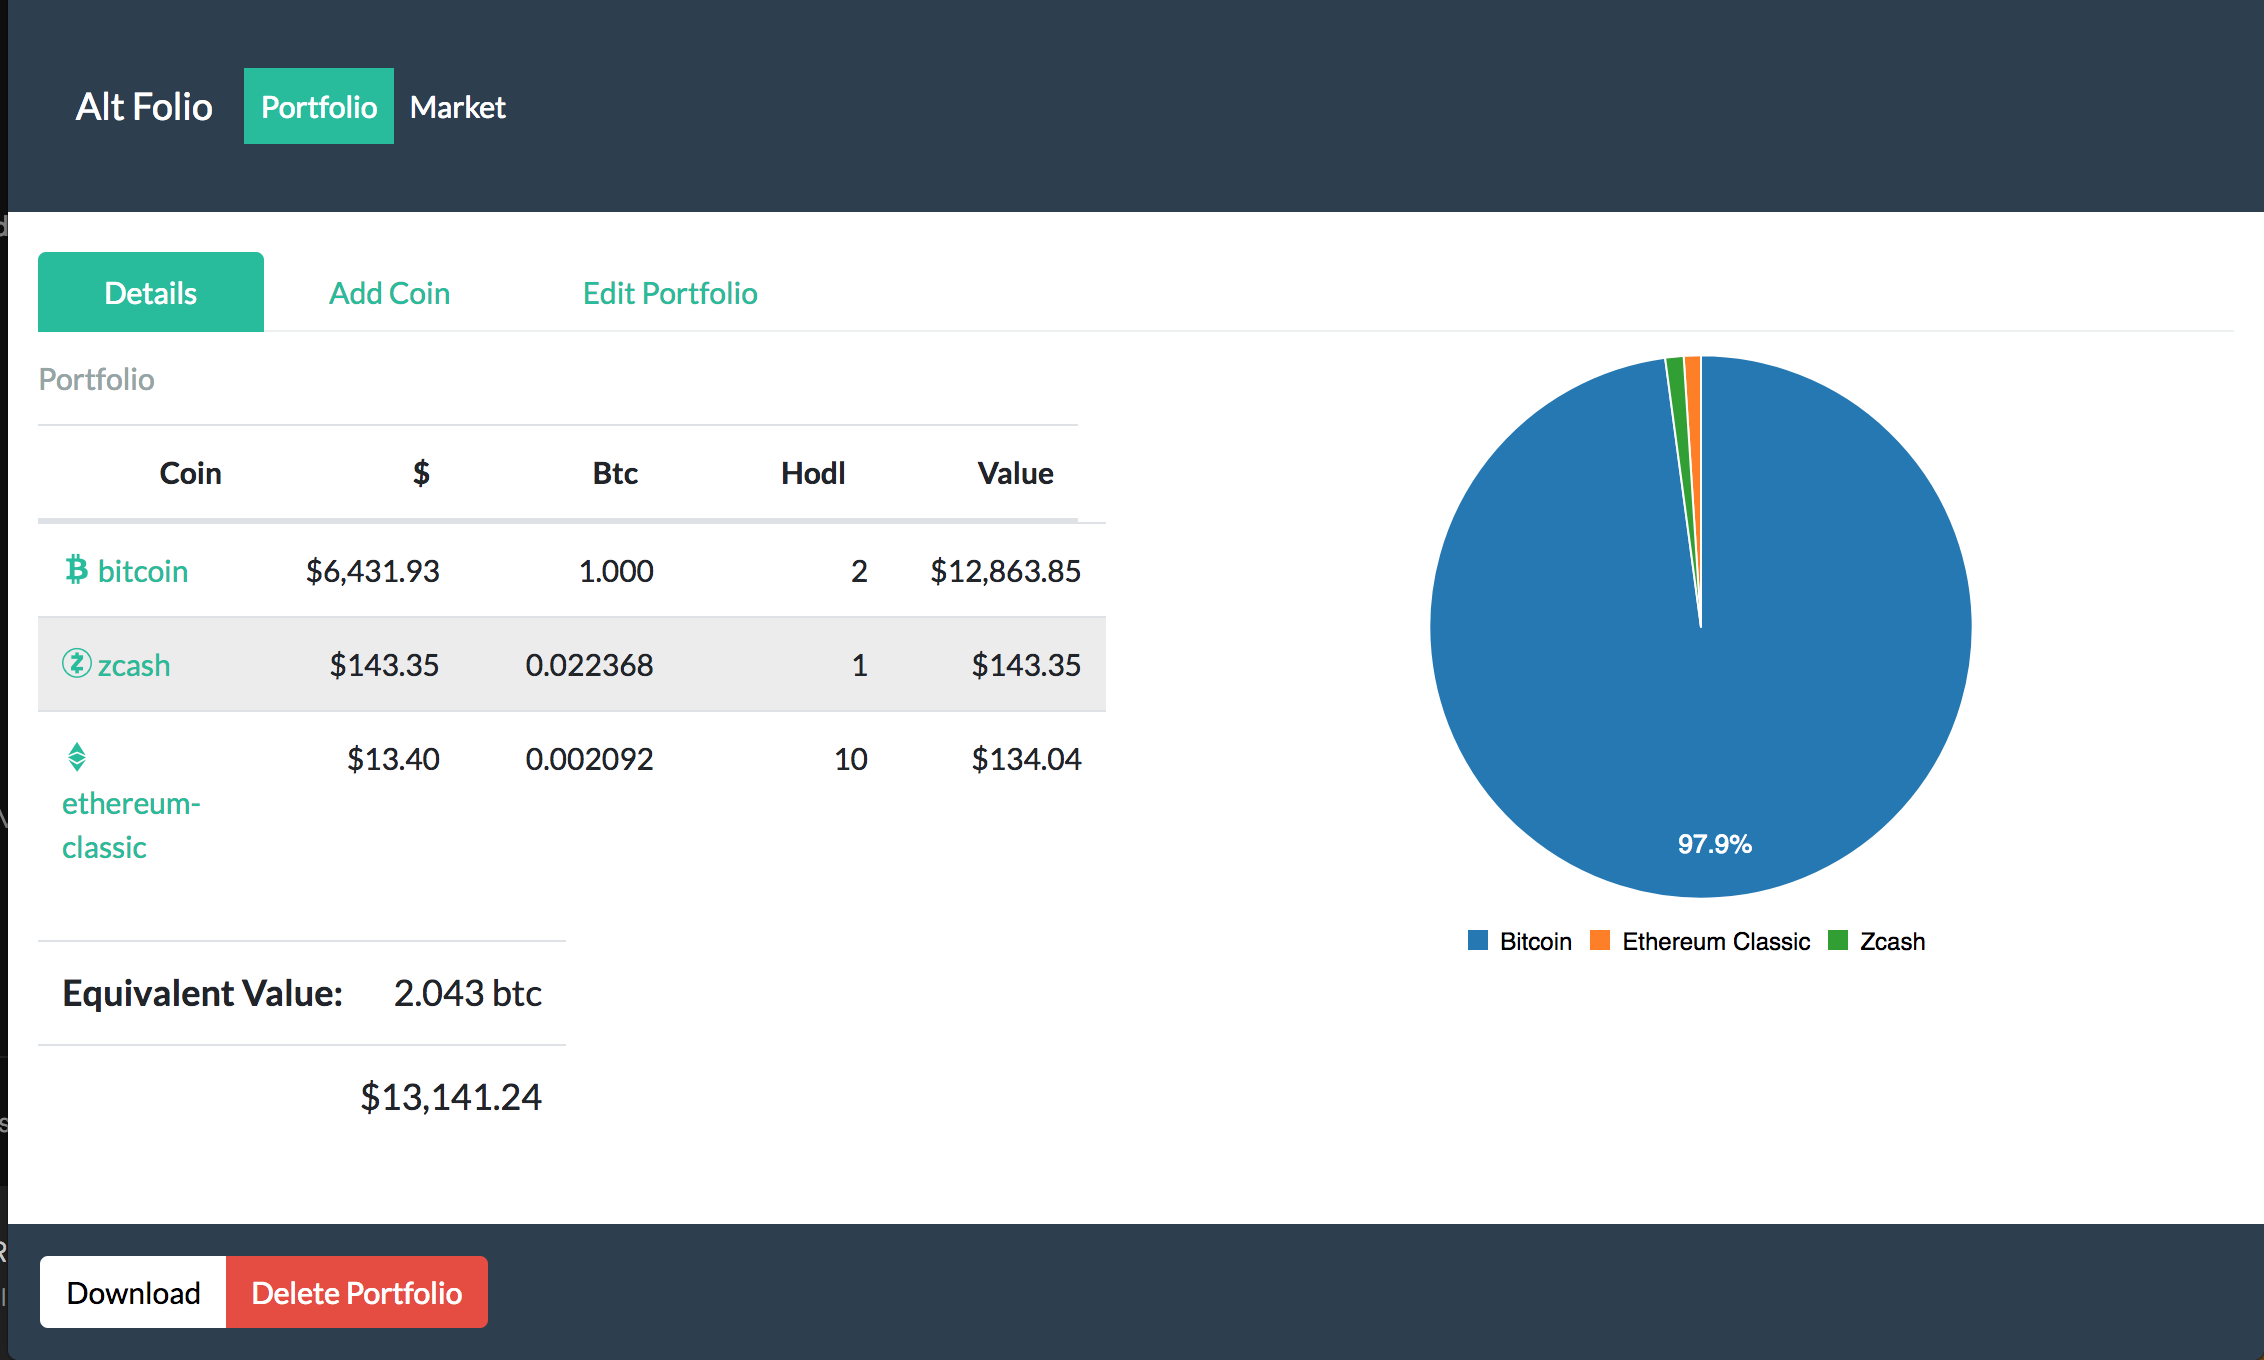
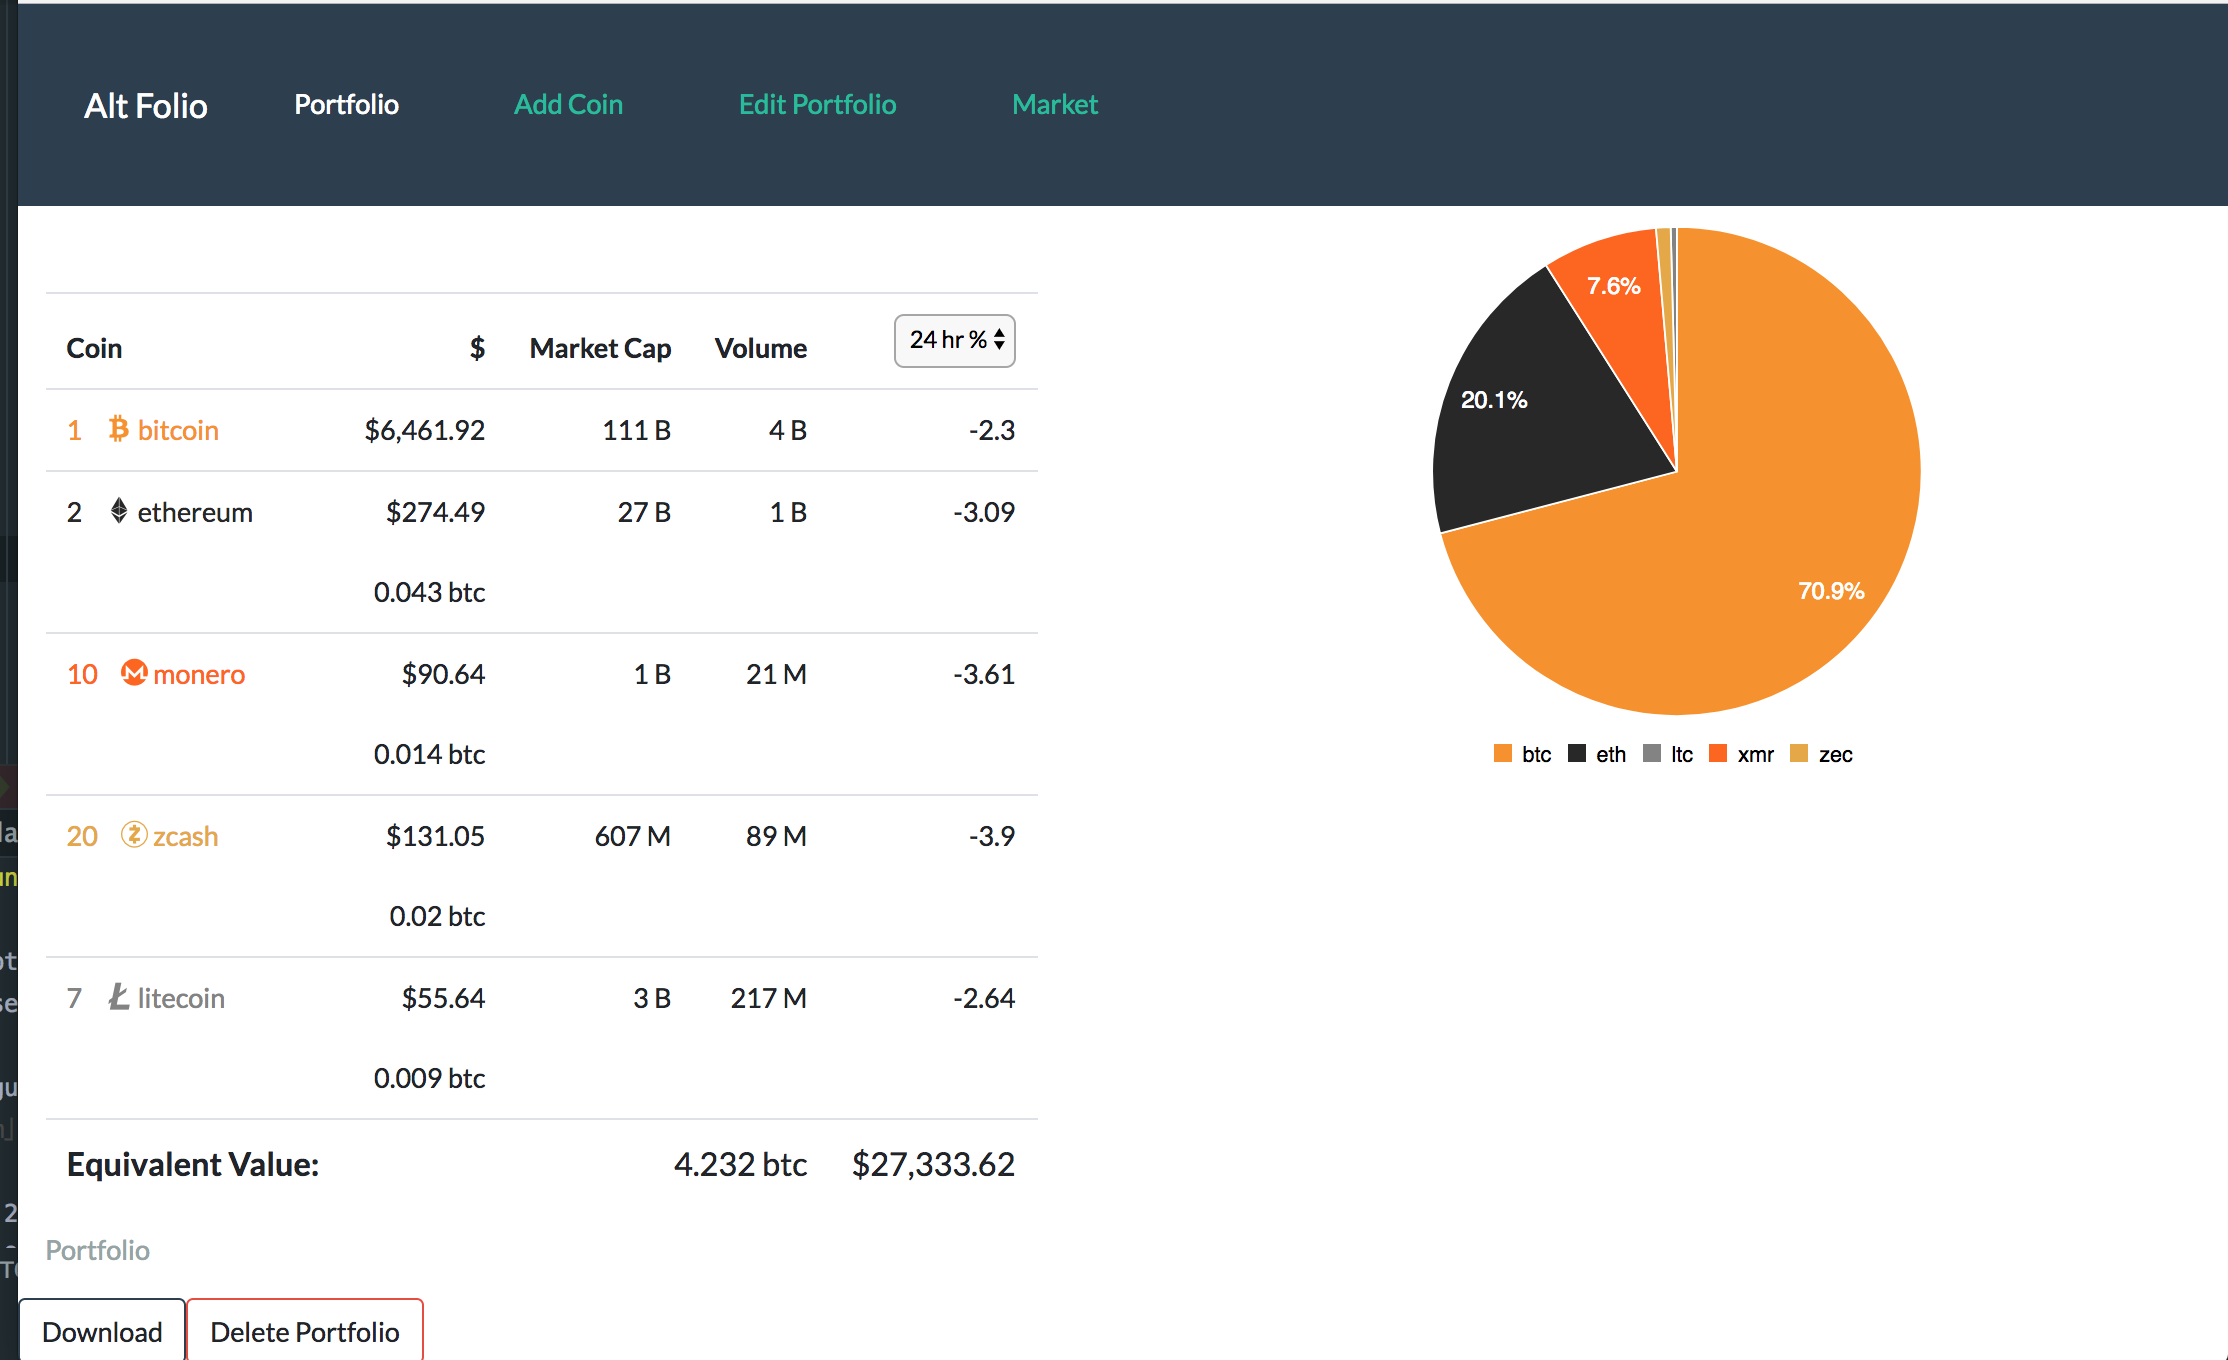
btc price

diff --git a/src/app/components/portfolio-table/portfolio-table.component.html b/src/app/components/portfolio-table/portfolio-table.component.html
@@ -58,7 +58,14 @@
               {{coin.id}}
             </a>
           </td>
-          <td class="text-right">{{coin.price_usd | currency }}</td>
+          <td class="text-right">
+            {{coin.price_usd | currency }}
+            <div *ngIf="coin.symbol.toLowerCase() !== 'btc'">
+              <br/>
+              {{coin.price_btc | number}}
+              btc
+            </div>
+          </td>
           <td class="text-right">{{coin.market_cap_usd | lgNumPipe }}</td>
           <td class="text-right">{{coin.volume_usd_24 | lgNumPipe }}</td>
           <td class="text-right">
